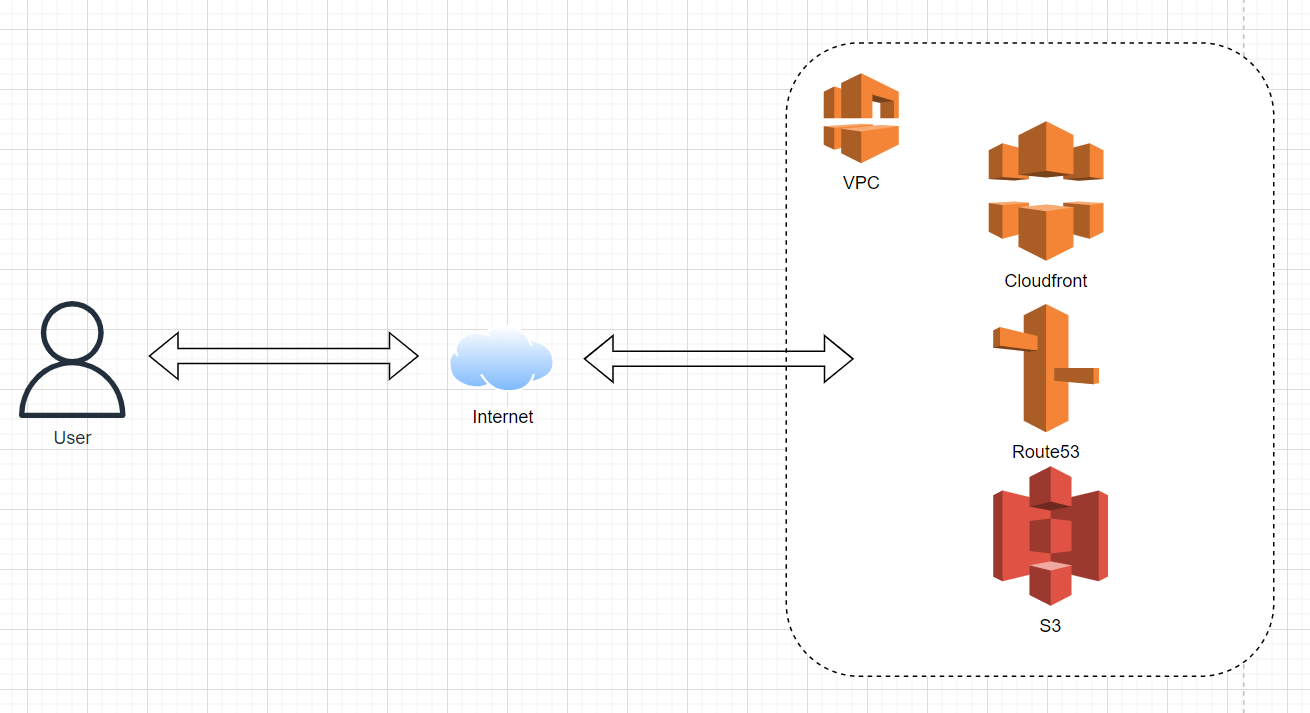
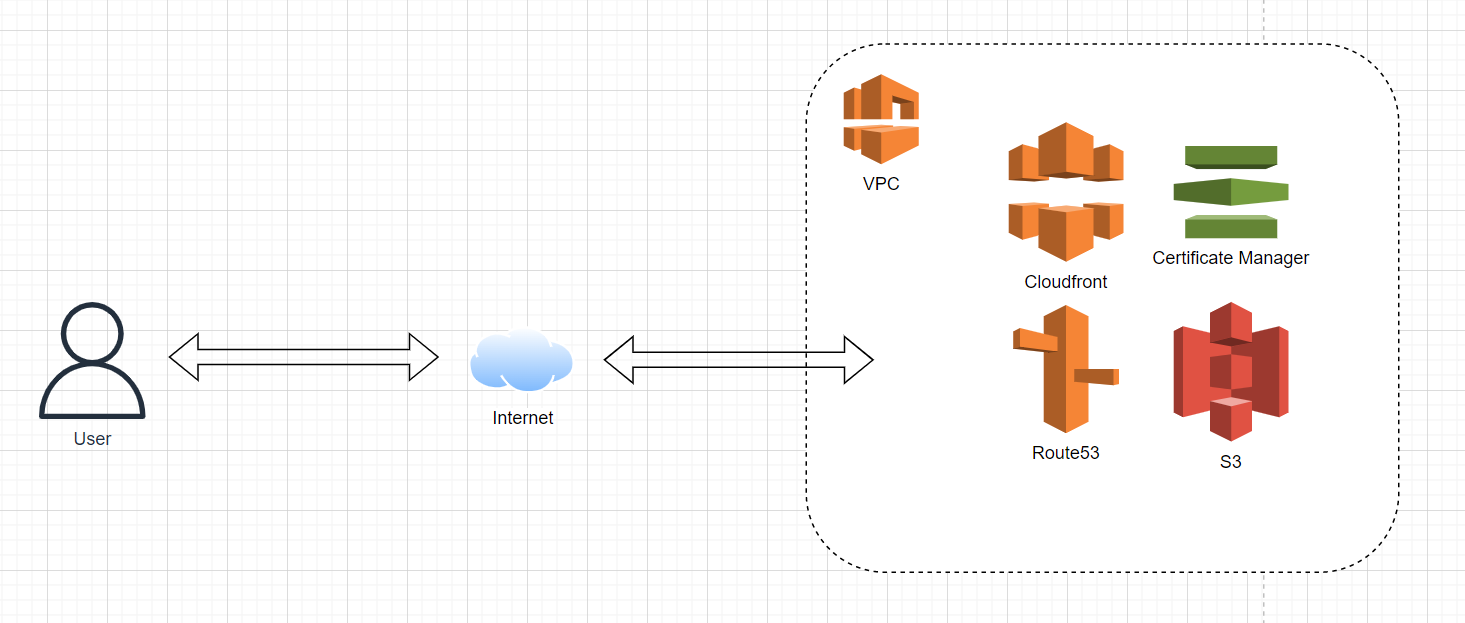
update docs

diff --git a/README.md b/README.md
@@ -1,5 +1,9 @@
 # checkmeoutdemo
 
+https://checkmeout-demo.com/
+https://d2hpoykar2zmx4.cloudfront.net/
+
+
 **Background:**
 
 We have been asked to create a website for a modern company that has recently migrated
@@ -32,7 +36,7 @@ implementation a step further.
 
 **Basic Design (v1):**
 
-We are going to keep this POC very simple and stick with 3 main services. S3 for storage, Cloudfront for content distribution and Route53 for hosting/dns. 
+We are going to keep this POC very simple and stick with 3 main services. S3 for storage, Cloudfront for content distribution and Route53 for hosting/dns. We will also use Certificate Manager for the ssl cert required for the web frontend.
 
 ![This is an image](/v1/docs/infra_v1.PNG)
 
@@ -46,4 +50,11 @@ In this instance we will use github actions for our ci/cd pipelines, with terraf
 
 **Github actions pipelines:**
 
-In the github/workflows folder there are two pipeline configurations, one for deploying the terraform, the othe for uploading the website content to s3. The primary pipeline is trigged by a push to main and the second is on completion of primary.
+In the github/workflows folder there are two pipeline configurations, one for deploying the terraform, the other for uploading the website content to s3. The primary pipeline is trigged by a push to main and the second is on completion of primary.
+
+**Security**
+
+We are using an ssl certificate on the web front end and have also enabled encryption on the s3 buckets. Public access is technically allowed but we want to further restrict access to content by using an origin access identity and an updated bucket policy.
+
+
+
